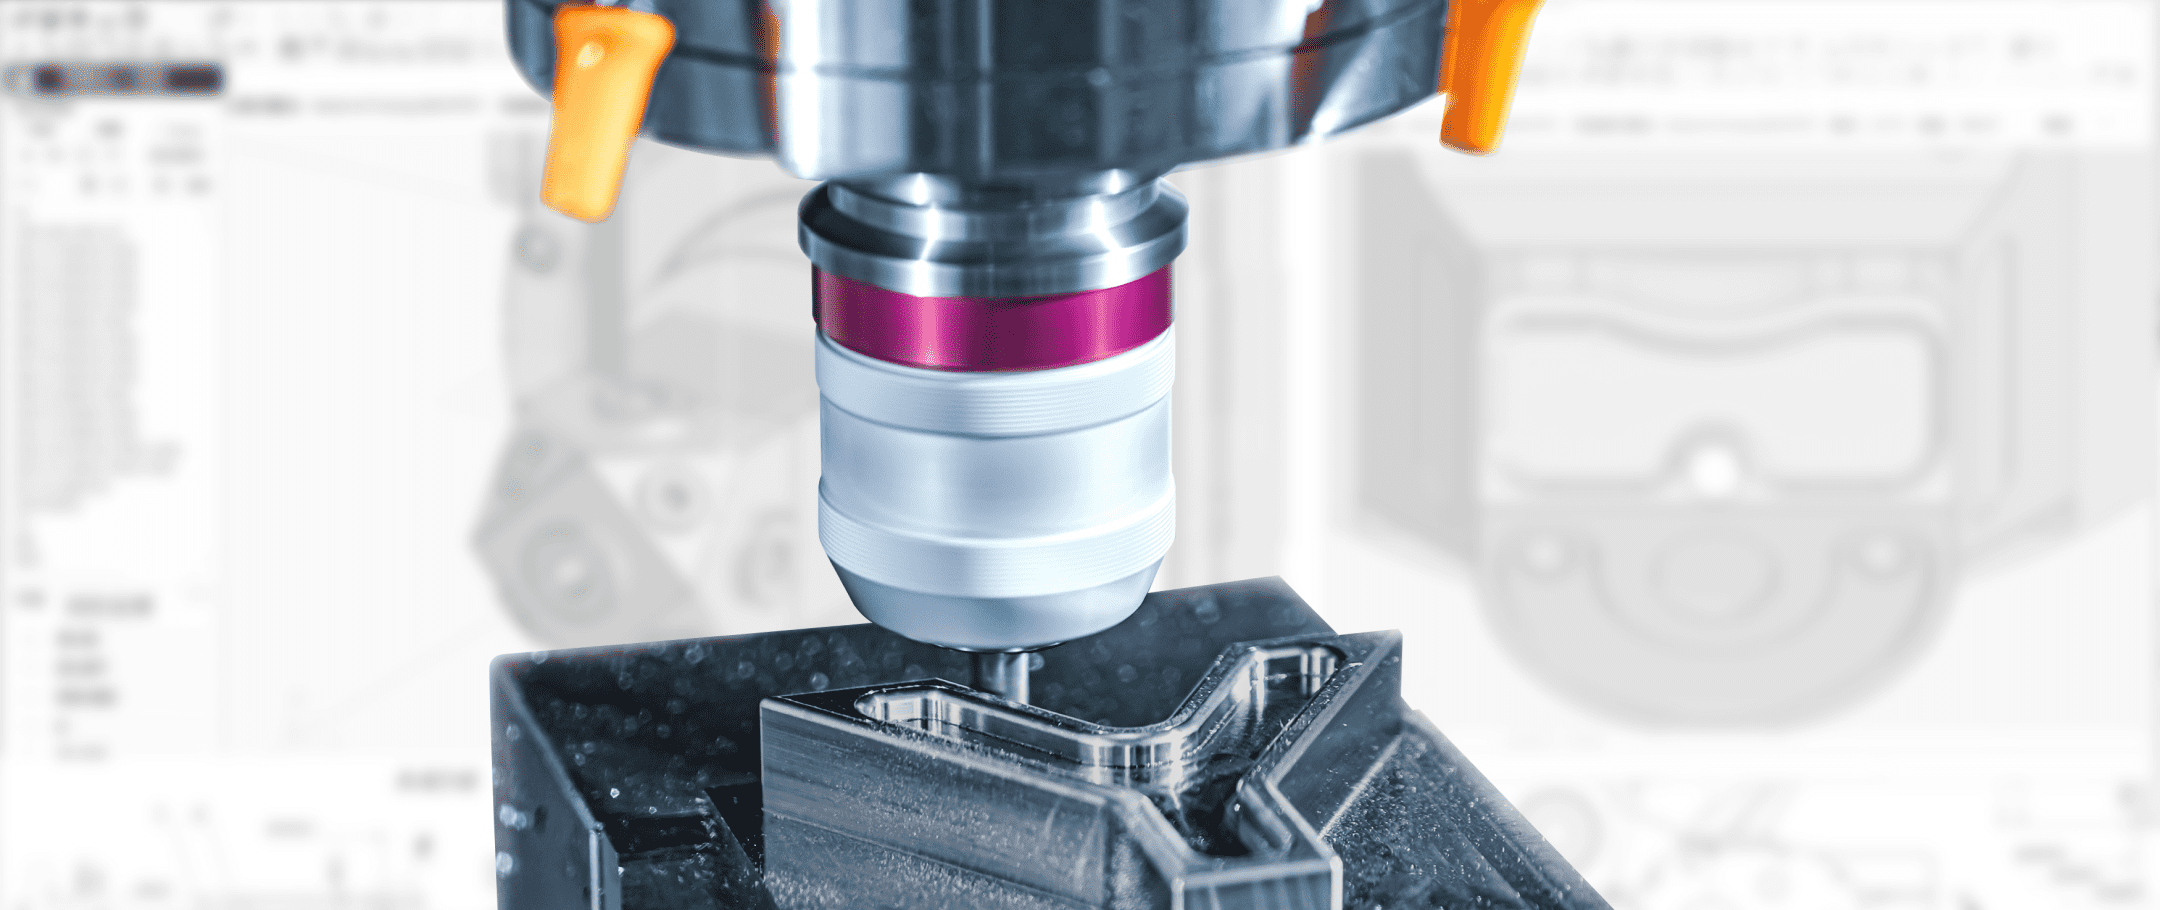
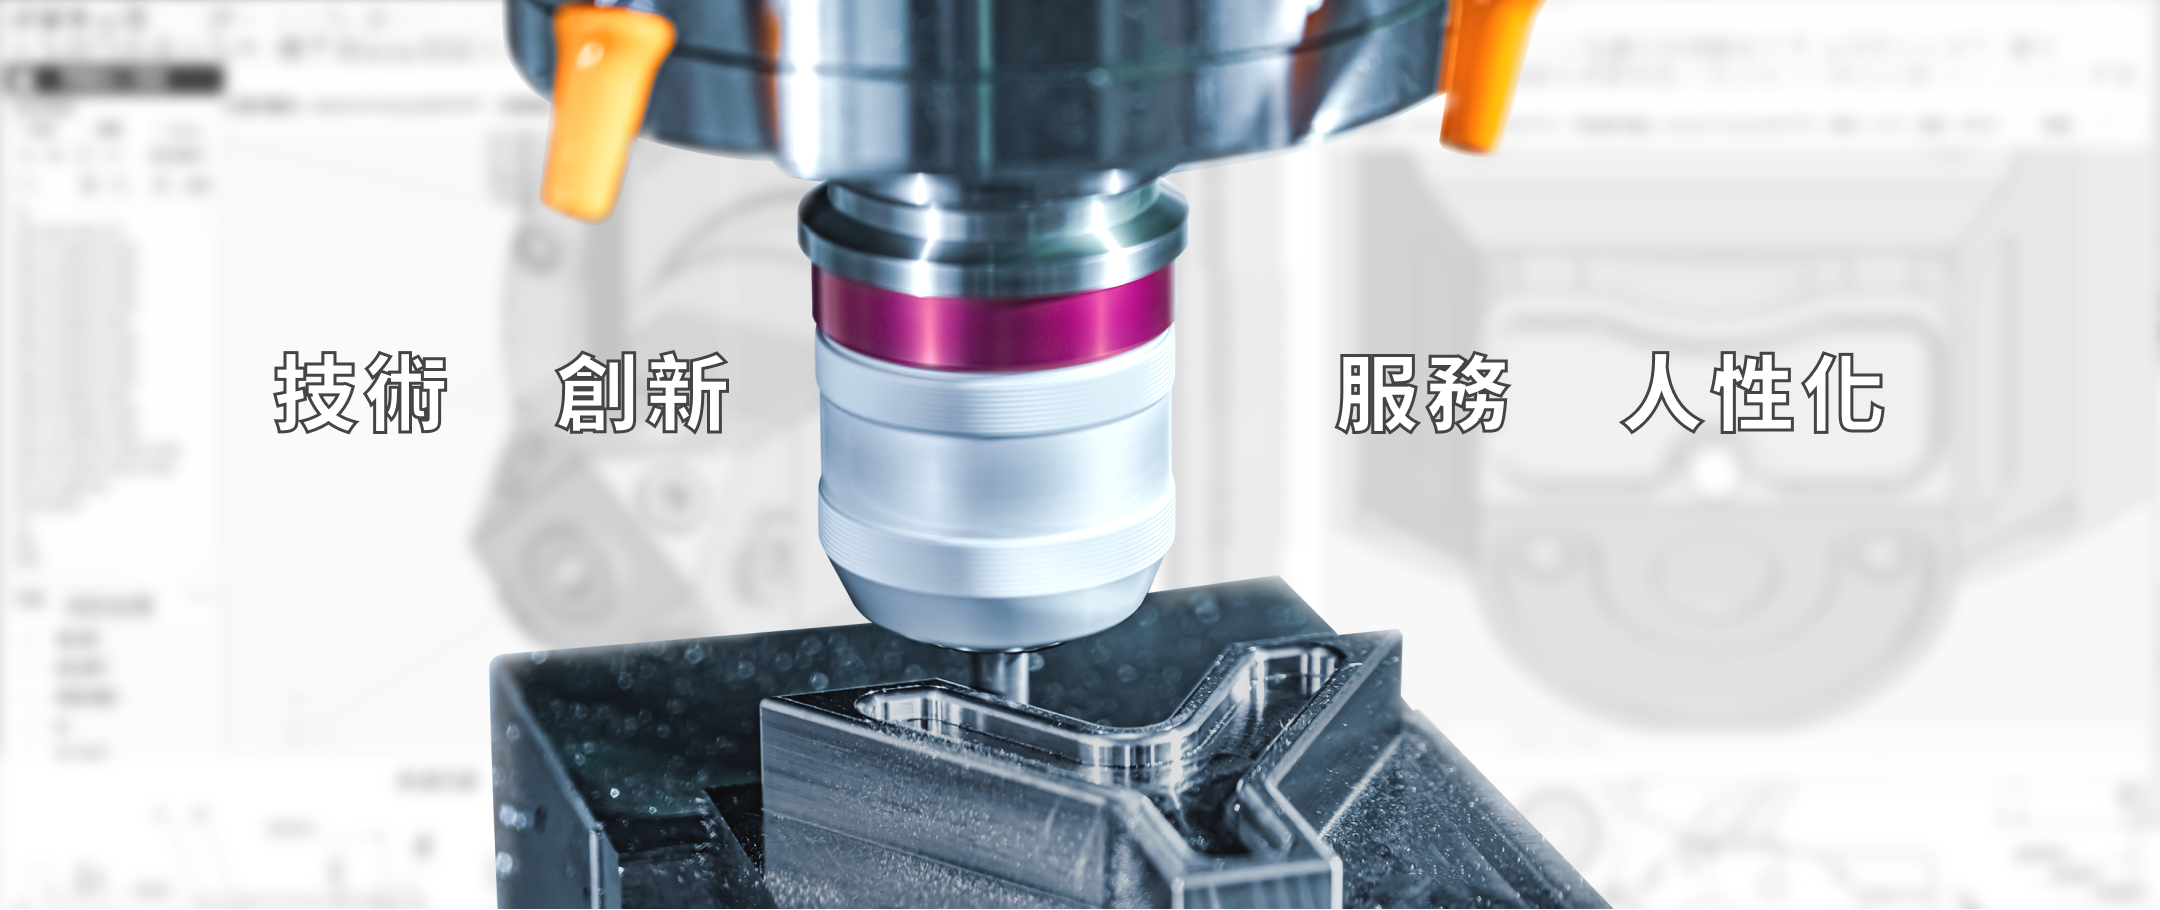
換圖

diff --git a/css/style.css b/css/style.css
@@ -1320,6 +1320,20 @@ main {
   margin-left: 10px;
 }
 
+@media screen and (max-width: 767px) {
+  .cookies {
+    padding: 30px 20px;
+  }
+  .cookies p {
+    font-size: 14px;
+    width: 100%;
+    padding: 0 0 30px;
+  }
+  .cookies .btn-accept {
+    width: 100%;
+  }
+}
+
 .policy {
   margin: 100px 0;
 }
@@ -1343,16 +1357,11 @@ main {
 
 .home_banner {
   width: 100%;
-  padding-bottom: 42%;
   position: relative;
 }
 
 .home_banner_pic {
-  position: absolute;
   width: 100%;
-  height: 100%;
-  -o-object-fit: cover;
-     object-fit: cover;
   top: 0;
   left: 0;
 }
@@ -1410,9 +1419,6 @@ main {
 }
 
 @media screen and (max-width: 767px) {
-  .home_banner {
-    padding-bottom: 60%;
-  }
   .home_banner_title span {
     font-size: 42px;
     -webkit-text-stroke: 1px #000;

diff --git a/css/_home.scss b/css/_home.scss
@@ -1,13 +1,13 @@
 .home {
     &_banner {
         width: 100%;
-        padding-bottom: 42%;
+        // padding-bottom: 42%;
         position: relative;
         &_pic {
-            position: absolute;
+            // position: absolute;
             width: 100%;
-            height: 100%;
-            object-fit: cover;
+            // height: 100%;
+            // object-fit: cover;
             top: 0;
             left: 0;
         }
@@ -62,7 +62,7 @@
             }
         }
         @media screen and (max-width: 767px) {
-            padding-bottom: 60%;
+            // padding-bottom: 60%;
             &_title {
                 span {
                     font-size: 42px;

diff --git a/css/_common.scss b/css/_common.scss
@@ -1107,6 +1107,17 @@ main {
             margin-left: 10px;
         }
     }
+    @media screen and (max-width: 767px) {
+        padding: 30px 20px;
+        p {
+            font-size: 14px;
+            width: 100%;
+            padding: 0 0 30px;
+        }
+        .btn-accept {
+            width: 100%;
+        }
+    }
 }
 
 .policy {

diff --git a/js/common.js b/js/common.js
@@ -44,3 +44,7 @@ $(".header_menu").click(function(){
     $(this).toggleClass("active");
     $(".header_link").toggleClass("active");
 })
+
+$(".btn-accept").click(function(){
+    $(".cookies").fadeOut(300);
+})

diff --git a/zh/index.php b/zh/index.php
@@ -10,12 +10,12 @@
         <div class="home_banner">
             <img class="home_banner_pic d-md-block d-none" src="../img/banner_home.png" alt="">
             <img class="home_banner_pic d-md-none" src="../img/banner_home_m.png" alt="">
-            <h1 class="home_banner_title">
+            <!-- <h1 class="home_banner_title">
                 <span>技術</span>
                 <span>創新</span>
                 <span>服務</span>
                 <span>人性化</span>
-            </h1>
+            </h1> -->
         </div>
 
         <div class="home_about">
